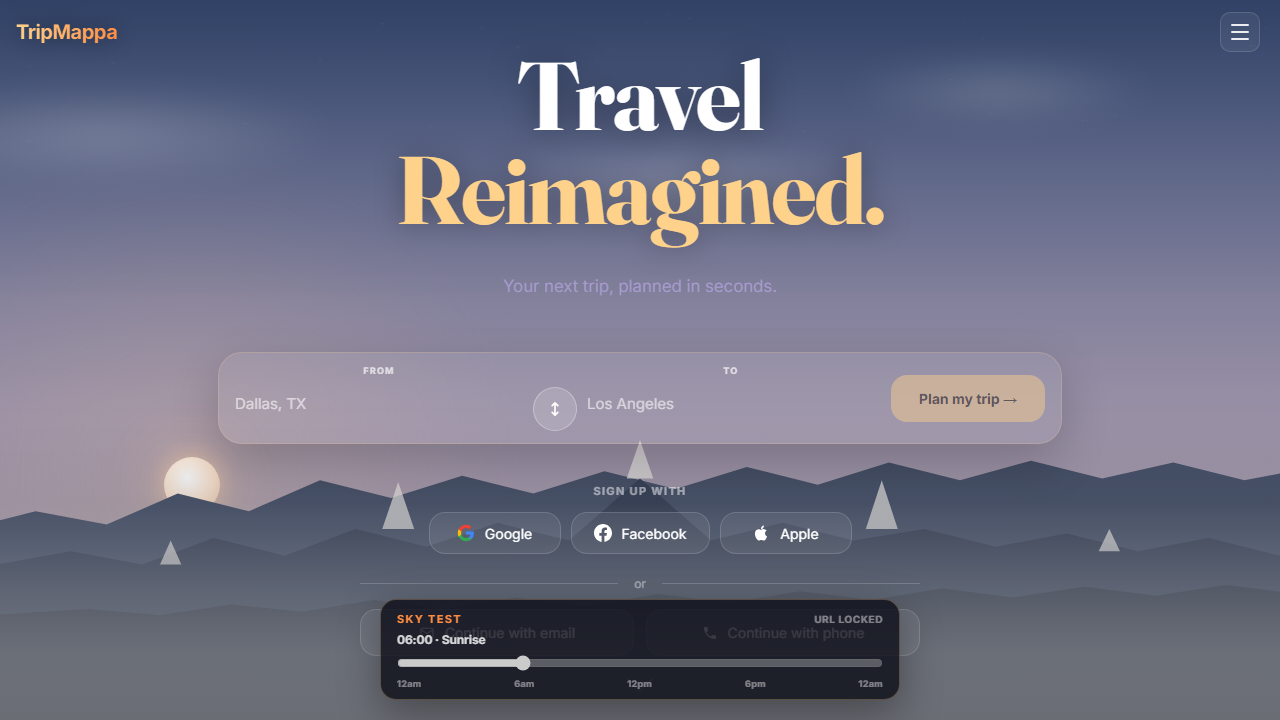
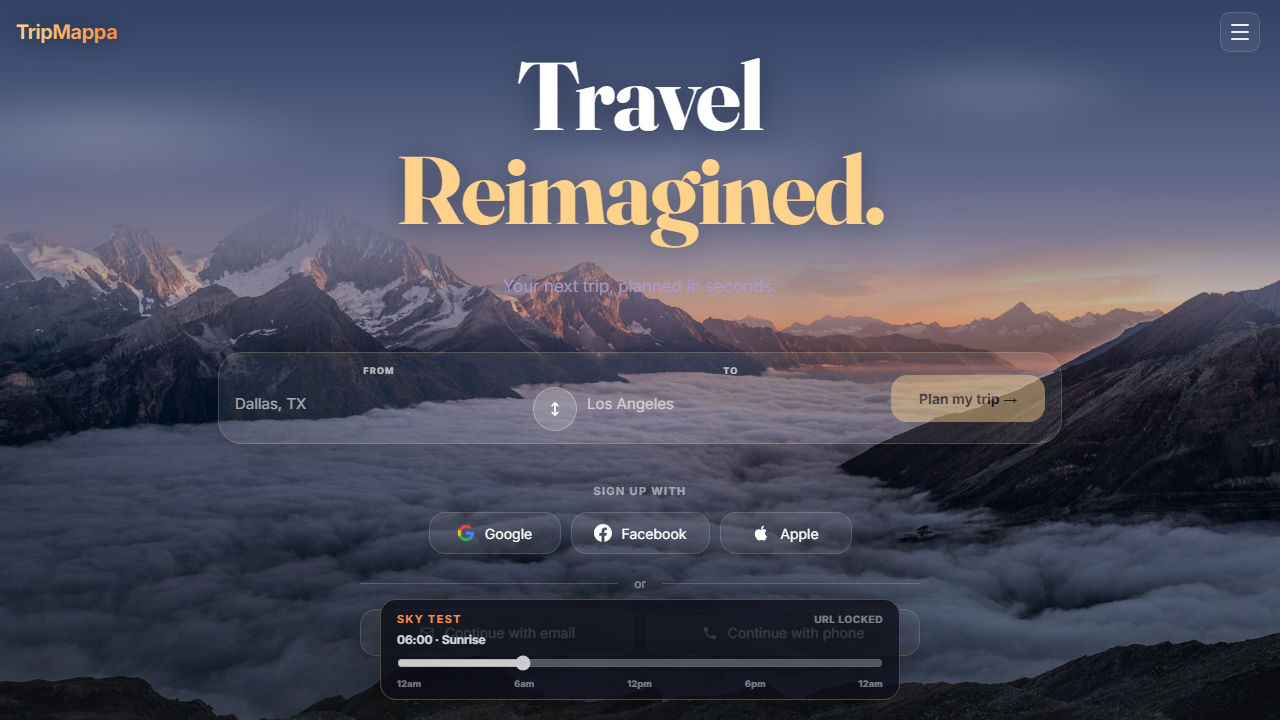
Restore photo mountain detail with masked animated sky layers.

diff --git a/src/styles/hero-mountain.css b/src/styles/hero-mountain.css
@@ -1,4 +1,4 @@
-/* Hero — procedural alpine sky + layered vector mountains (no photo) */
+/* Hero — animated sky + masked alpine photo for realistic mountain detail */
 
 .hero-mountain-scene {
   position: absolute;
@@ -158,79 +158,82 @@
   to { transform: translateX(-105vw); }
 }
 
-/* ── Mountain silhouettes ── */
-.hero-mountains {
+/* ── Photo mountains (masked — sky comes from animated layers above) ── */
+.hero-photo-layer {
   position: absolute;
-  left: 0;
-  right: 0;
-  bottom: 0;
-  width: 100%;
-  height: min(62vh, 520px);
+  inset: 0;
   z-index: 4;
-}
-
-.hero-mtn {
-  transition: fill 1s ease;
-}
-
-.hero-mtn--far {
-  fill: var(--mtn-far, rgb(88, 108, 128));
-}
-
-.hero-mtn--mid {
-  fill: var(--mtn-mid, rgb(58, 72, 92));
-}
-
-.hero-mtn--near {
-  fill: var(--mtn-near, rgb(32, 42, 56));
-}
-
-.hero-mtn-snow {
-  fill: var(--mtn-snow, rgb(248, 250, 255));
-  opacity: calc(0.55 + var(--mtn-rim, 0.1) * 0.8);
-  transition: fill 1s ease, opacity 1s ease;
-}
-
-/* Golden-hour rim light on the ridgeline */
-.hero-ridge-glow {
-  position: absolute;
-  left: 0;
-  right: 0;
-  bottom: 0;
-  height: min(62vh, 520px);
-  z-index: 5;
-  pointer-events: none;
-  background: linear-gradient(
-    to top,
+  -webkit-mask-image: linear-gradient(
+    to bottom,
     transparent 0%,
-    transparent 58%,
-    color-mix(in srgb, var(--sky-warm, rgb(255, 180, 100)) calc(var(--mtn-rim, 0) * 55%), transparent) 72%,
-    color-mix(in srgb, var(--sky-warm, rgb(255, 200, 140)) calc(var(--mtn-rim, 0) * 35%), transparent) 84%,
-    transparent 100%
+    transparent 24%,
+    rgba(0, 0, 0, 0.15) 32%,
+    rgba(0, 0, 0, 0.55) 40%,
+    black 50%,
+    black 100%
   );
-  mix-blend-mode: screen;
-  opacity: calc(var(--mtn-rim, 0) * 1.2);
-  transition: opacity 1s ease;
+  mask-image: linear-gradient(
+    to bottom,
+    transparent 0%,
+    transparent 24%,
+    rgba(0, 0, 0, 0.15) 32%,
+    rgba(0, 0, 0, 0.55) 40%,
+    black 50%,
+    black 100%
+  );
 }
 
-/* ── Cloud sea below the peaks ── */
+.hero-photo-slide {
+  position: absolute;
+  inset: 0;
+  background-color: #0a0c14;
+  background-size: cover;
+  background-repeat: no-repeat;
+  background-position: center 42%;
+  filter: brightness(var(--photo-bright, 1))
+    contrast(var(--photo-contrast, 1.05))
+    saturate(var(--photo-sat, 1.05));
+  transition: filter 1s ease;
+}
+
+.hero-photo-tint {
+  position: absolute;
+  inset: 0;
+  background: var(--photo-tint, rgb(18, 22, 52));
+  opacity: var(--photo-tint-op, 0);
+  mix-blend-mode: color;
+  transition: opacity 1s ease, background 1s ease;
+}
+
+.hero-photo-sky-fade {
+  position: absolute;
+  inset: 0;
+  background: linear-gradient(
+    to bottom,
+    var(--sky-horizon, rgb(218, 232, 245)) 0%,
+    color-mix(in srgb, var(--sky-horizon, rgb(218, 232, 245)) 65%, transparent) 18%,
+    transparent 38%
+  );
+  opacity: 0.72;
+  pointer-events: none;
+}
+
+/* Subtle night cloud wash over the photo base */
 .hero-cloud-sea {
   position: absolute;
   left: 0;
   right: 0;
   bottom: 0;
-  height: 42%;
-  z-index: 6;
+  height: 38%;
+  z-index: 5;
   pointer-events: none;
   background: linear-gradient(
     to top,
-    rgba(255, 255, 255, 0.97) 0%,
-    rgba(244, 248, 252, 0.88) 22%,
-    rgba(228, 236, 244, 0.55) 48%,
-    rgba(210, 222, 235, 0.18) 72%,
-    transparent 100%
+    rgba(255, 255, 255, 0.35) 0%,
+    rgba(244, 248, 252, 0.18) 30%,
+    transparent 72%
   );
-  opacity: var(--cloud-sea, 0.85);
+  opacity: var(--cloud-sea, 0);
   transition: opacity 1s ease;
 }
 
@@ -238,9 +241,8 @@
 .hero-mountain-scene--pre_dawn .hero-cloud-sea {
   background: linear-gradient(
     to top,
-    rgba(18, 22, 38, 0.92) 0%,
-    rgba(28, 34, 52, 0.72) 28%,
-    rgba(38, 44, 64, 0.35) 55%,
+    rgba(12, 16, 32, 0.55) 0%,
+    rgba(22, 28, 48, 0.28) 35%,
     transparent 100%
   );
 }
@@ -249,9 +251,8 @@
   .hero-sun-halo,
   .hero-sun-disc,
   .hero-moon-disc,
-  .hero-mtn,
-  .hero-mtn-snow,
-  .hero-ridge-glow,
+  .hero-photo-slide,
+  .hero-photo-tint,
   .hero-cloud-sea,
   .hero-stars {
     transition: none;
@@ -394,8 +395,29 @@
 
 /* ── Mobile: keep sky visible above the route form ── */
 @media (max-width: 768px) {
-  html[data-layout="mobile"] .hero-mountains {
-    height: min(56vh, 460px);
+  html[data-layout="mobile"] .hero-photo-slide {
+    background-position: center 28%;
+  }
+
+  html[data-layout="mobile"] .hero-photo-layer {
+    -webkit-mask-image: linear-gradient(
+      to bottom,
+      transparent 0%,
+      transparent 20%,
+      rgba(0, 0, 0, 0.2) 28%,
+      rgba(0, 0, 0, 0.6) 36%,
+      black 46%,
+      black 100%
+    );
+    mask-image: linear-gradient(
+      to bottom,
+      transparent 0%,
+      transparent 20%,
+      rgba(0, 0, 0, 0.2) 28%,
+      rgba(0, 0, 0, 0.6) 36%,
+      black 46%,
+      black 100%
+    );
   }
 
   html[data-layout="mobile"] .hero:has(.hero-mountain-scene) .hero-overlay {

diff --git a/src/lib/skyTime.js b/src/lib/skyTime.js
@@ -98,18 +98,18 @@ function rgbStr([r, g, b]) {
   return `rgb(${r}, ${g}, ${b})`;
 }
 
-/** Hour samples for smooth sky + mountain palette over the vector hero scene. */
+/** Hour samples — animated sky + photo mountain grade. */
 const SKY_ATMOSPHERE_KEYS = [
-  { h: 0, zenith: [12, 16, 38], horizon: [38, 34, 62], warm: [180, 190, 220], warmth: 0, stars: 1, glow: 0, mtnFar: [20, 24, 44], mtnMid: [12, 16, 32], mtnNear: [6, 8, 18], snow: [195, 205, 220], rim: 0.05, cloudSea: 0.28 },
-  { h: 4, zenith: [18, 22, 52], horizon: [58, 48, 82], warm: [210, 170, 140], warmth: 0.04, stars: 0.85, glow: 0, mtnFar: [24, 28, 50], mtnMid: [16, 20, 38], mtnNear: [8, 10, 22], snow: [210, 215, 228], rim: 0.08, cloudSea: 0.32 },
-  { h: 5.5, zenith: [48, 58, 98], horizon: [145, 118, 138], warm: [255, 195, 145], warmth: 0.18, stars: 0.15, glow: 0.28, mtnFar: [52, 58, 82], mtnMid: [38, 44, 68], mtnNear: [22, 28, 48], snow: [235, 228, 218], rim: 0.22, cloudSea: 0.55 },
-  { h: 7, zenith: [82, 128, 178], horizon: [196, 212, 232], warm: [255, 228, 200], warmth: 0.1, stars: 0, glow: 0.32, mtnFar: [78, 98, 122], mtnMid: [52, 68, 88], mtnNear: [30, 40, 54], snow: [248, 250, 255], rim: 0.18, cloudSea: 0.82 },
-  { h: 12, zenith: [72, 132, 198], horizon: [218, 232, 245], warm: [255, 242, 225], warmth: 0.06, stars: 0, glow: 0.38, mtnFar: [88, 108, 128], mtnMid: [58, 72, 92], mtnNear: [32, 42, 56], snow: [252, 254, 255], rim: 0.12, cloudSea: 0.94 },
-  { h: 16, zenith: [88, 118, 168], horizon: [225, 188, 148], warm: [255, 178, 95], warmth: 0.16, stars: 0, glow: 0.42, mtnFar: [82, 98, 118], mtnMid: [54, 66, 86], mtnNear: [30, 38, 52], snow: [250, 242, 232], rim: 0.28, cloudSea: 0.88 },
-  { h: 18.5, zenith: [62, 48, 88], horizon: [195, 115, 72], warm: [255, 145, 70], warmth: 0.22, stars: 0.08, glow: 0.38, mtnFar: [48, 42, 72], mtnMid: [32, 28, 52], mtnNear: [18, 16, 34], snow: [240, 210, 195], rim: 0.35, cloudSea: 0.62 },
-  { h: 20, zenith: [32, 26, 54], horizon: [82, 52, 68], warm: [255, 130, 80], warmth: 0.08, stars: 0.55, glow: 0.12, mtnFar: [28, 24, 48], mtnMid: [18, 16, 36], mtnNear: [10, 10, 24], snow: [210, 200, 210], rim: 0.12, cloudSea: 0.4 },
-  { h: 22, zenith: [14, 18, 40], horizon: [40, 36, 64], warm: [170, 175, 210], warmth: 0, stars: 0.92, glow: 0, mtnFar: [18, 22, 42], mtnMid: [10, 14, 30], mtnNear: [6, 8, 18], snow: [200, 208, 222], rim: 0.06, cloudSea: 0.3 },
-  { h: 24, zenith: [12, 16, 38], horizon: [38, 34, 62], warm: [180, 190, 220], warmth: 0, stars: 1, glow: 0, mtnFar: [20, 24, 44], mtnMid: [12, 16, 32], mtnNear: [6, 8, 18], snow: [195, 205, 220], rim: 0.05, cloudSea: 0.28 },
+  { h: 0, zenith: [12, 16, 38], horizon: [38, 34, 62], warm: [180, 190, 220], warmth: 0, stars: 1, glow: 0, cloudSea: 0.15, photoBright: 0.38, photoContrast: 1.12, photoSat: 0.52, photoTint: [18, 22, 52], photoTintOp: 0.58 },
+  { h: 4, zenith: [18, 22, 52], horizon: [58, 48, 82], warm: [210, 170, 140], warmth: 0.04, stars: 0.85, glow: 0, cloudSea: 0.18, photoBright: 0.48, photoContrast: 1.1, photoSat: 0.62, photoTint: [32, 28, 58], photoTintOp: 0.45 },
+  { h: 5.5, zenith: [48, 58, 98], horizon: [145, 118, 138], warm: [255, 195, 145], warmth: 0.18, stars: 0.15, glow: 0.28, cloudSea: 0.22, photoBright: 0.82, photoContrast: 1.06, photoSat: 1.08, photoTint: [255, 170, 110], photoTintOp: 0.14 },
+  { h: 7, zenith: [82, 128, 178], horizon: [196, 212, 232], warm: [255, 228, 200], warmth: 0.1, stars: 0, glow: 0.32, cloudSea: 0.08, photoBright: 1, photoContrast: 1.04, photoSat: 1.08, photoTint: [255, 220, 190], photoTintOp: 0.06 },
+  { h: 12, zenith: [72, 132, 198], horizon: [218, 232, 245], warm: [255, 242, 225], warmth: 0.06, stars: 0, glow: 0.38, cloudSea: 0, photoBright: 1.02, photoContrast: 1.05, photoSat: 1.1, photoTint: [255, 248, 240], photoTintOp: 0 },
+  { h: 16, zenith: [88, 118, 168], horizon: [225, 188, 148], warm: [255, 178, 95], warmth: 0.16, stars: 0, glow: 0.42, cloudSea: 0.05, photoBright: 0.98, photoContrast: 1.06, photoSat: 1.12, photoTint: [255, 200, 140], photoTintOp: 0.08 },
+  { h: 18.5, zenith: [62, 48, 88], horizon: [195, 115, 72], warm: [255, 145, 70], warmth: 0.22, stars: 0.08, glow: 0.38, cloudSea: 0.12, photoBright: 0.88, photoContrast: 1.08, photoSat: 1.05, photoTint: [255, 140, 80], photoTintOp: 0.16 },
+  { h: 20, zenith: [32, 26, 54], horizon: [82, 52, 68], warm: [255, 130, 80], warmth: 0.08, stars: 0.55, glow: 0.12, cloudSea: 0.2, photoBright: 0.55, photoContrast: 1.1, photoSat: 0.72, photoTint: [45, 32, 68], photoTintOp: 0.38 },
+  { h: 22, zenith: [14, 18, 40], horizon: [40, 36, 64], warm: [170, 175, 210], warmth: 0, stars: 0.92, glow: 0, cloudSea: 0.16, photoBright: 0.4, photoContrast: 1.12, photoSat: 0.55, photoTint: [22, 26, 50], photoTintOp: 0.52 },
+  { h: 24, zenith: [12, 16, 38], horizon: [38, 34, 62], warm: [180, 190, 220], warmth: 0, stars: 1, glow: 0, cloudSea: 0.15, photoBright: 0.38, photoContrast: 1.12, photoSat: 0.52, photoTint: [18, 22, 52], photoTintOp: 0.58 },
 ];
 
 function sampleAtmosphere(hour) {
@@ -127,12 +127,12 @@ function sampleAtmosphere(hour) {
     warmth: lerp(a.warmth, b.warmth, t),
     stars: lerp(a.stars, b.stars, t),
     glow: lerp(a.glow, b.glow, t),
-    mtnFar: lerpRgb(a.mtnFar, b.mtnFar, t),
-    mtnMid: lerpRgb(a.mtnMid, b.mtnMid, t),
-    mtnNear: lerpRgb(a.mtnNear, b.mtnNear, t),
-    snow: lerpRgb(a.snow, b.snow, t),
-    rim: lerp(a.rim, b.rim, t),
     cloudSea: lerp(a.cloudSea, b.cloudSea, t),
+    photoBright: lerp(a.photoBright, b.photoBright, t),
+    photoContrast: lerp(a.photoContrast, b.photoContrast, t),
+    photoSat: lerp(a.photoSat, b.photoSat, t),
+    photoTint: lerpRgb(a.photoTint, b.photoTint, t),
+    photoTintOp: lerp(a.photoTintOp, b.photoTintOp, t),
   };
 }
 
@@ -157,7 +157,7 @@ function moonPosition(hour) {
   };
 }
 
-/** Continuous sky atmosphere for the vector hero — sky, sun/moon, mountains, cloud sea. */
+/** Continuous sky atmosphere — animated sky + graded photo mountains. */
 export function getSkyAtmosphere(hour = 12) {
   const sample = sampleAtmosphere(hour);
   const sun = sunPosition(hour);
@@ -180,12 +180,12 @@ export function getSkyAtmosphere(hour = 12) {
       "--moon-x": moon ? `${moon.x}%` : "50%",
       "--moon-y": moon ? `${moon.y}%` : "50%",
       "--moon-visible": moon ? "1" : "0",
-      "--mtn-far": rgbStr(sample.mtnFar),
-      "--mtn-mid": rgbStr(sample.mtnMid),
-      "--mtn-near": rgbStr(sample.mtnNear),
-      "--mtn-snow": rgbStr(sample.snow),
-      "--mtn-rim": String(sample.rim),
       "--cloud-sea": String(sample.cloudSea),
+      "--photo-bright": String(sample.photoBright),
+      "--photo-contrast": String(sample.photoContrast),
+      "--photo-sat": String(sample.photoSat),
+      "--photo-tint": rgbStr(sample.photoTint),
+      "--photo-tint-op": String(sample.photoTintOp),
     },
   };
 }

diff --git a/src/components/HeroMountainScene.jsx b/src/components/HeroMountainScene.jsx
@@ -1,5 +1,5 @@
 import { useMemo } from "react";
-import { MTN_FAR, MTN_MID, MTN_NEAR, MTN_SNOW } from "../lib/heroMountainPaths.js";
+import { HERO_PHOTO } from "../lib/constants.js";
 import { buildStarField, getSkyAtmosphere, SKY_PHASES } from "../lib/skyTime.js";
 
 const STARS = buildStarField(72);
@@ -49,19 +49,15 @@ export default function HeroMountainScene({ phase = SKY_PHASES.night, hour = 12 
         </div>
       )}
 
-      <svg
-        className="hero-mountains"
-        viewBox="0 0 1440 520"
-        preserveAspectRatio="xMidYMax slice"
-        aria-hidden="true"
-      >
-        <path className="hero-mtn hero-mtn--far" d={MTN_FAR} />
-        <path className="hero-mtn hero-mtn--mid" d={MTN_MID} />
-        <path className="hero-mtn hero-mtn--near" d={MTN_NEAR} />
-        <path className="hero-mtn-snow" d={MTN_SNOW} />
-      </svg>
+      <div className="hero-photo-layer">
+        <div
+          className="hero-photo-slide"
+          style={{ backgroundImage: `url(${HERO_PHOTO})` }}
+        />
+        <div className="hero-photo-tint" aria-hidden="true" />
+        <div className="hero-photo-sky-fade" aria-hidden="true" />
+      </div>
 
-      <div className="hero-ridge-glow" aria-hidden="true" />
       <div className="hero-cloud-sea" aria-hidden="true" />
     </div>
   );

diff --git a/src/lib/constants.js b/src/lib/constants.js
@@ -45,9 +45,9 @@ export const HERO_PHOTOS_NIGHT = [
   "https://images.unsplash.com/photo-1419242902214-272b3f66ee7a?w=1920&q=80",
 ];
 
-/** @deprecated Hero uses procedural SVG mountains — no photo asset */
-export const HERO_PHOTO = null;
-export const HERO_PHOTO_PRELOAD = null;
+/** Self-hosted alpine hero photo — sky is animated separately via CSS mask. */
+export const HERO_PHOTO = "/hero-mountain.jpg";
+export const HERO_PHOTO_PRELOAD = HERO_PHOTO;
 
 /** @deprecated Use HERO_PHOTO — kept for legacy imports */
 export const HERO_PHOTO_DAY = HERO_PHOTOS_DAY[0];

diff --git a/src/lib/skyTime.test.js b/src/lib/skyTime.test.js
@@ -66,8 +66,8 @@ describe("skyTime", () => {
     expect(night.cssVars["--sun-visible"]).toBe("0");
     expect(noon.cssVars["--moon-visible"]).toBe("0");
     expect(night.cssVars["--moon-visible"]).toBe("1");
-    expect(noon.cssVars["--mtn-far"]).toMatch(/^rgb\(/);
-    expect(parseFloat(noon.cssVars["--cloud-sea"])).toBeGreaterThan(0.8);
+    expect(noon.cssVars["--photo-bright"]).toBeDefined();
+    expect(parseFloat(night.cssVars["--photo-bright"])).toBeLessThan(0.5);
   });
 
   it("clears theme override when toggled back to the auto default", () => {

diff --git a/index.html b/index.html
@@ -5,6 +5,7 @@
     <link rel="icon" type="image/svg+xml" href="/favicon.svg" />
     <meta name="viewport" content="width=device-width, initial-scale=1.0" />
     <title>tripmappa</title>
+    <link rel="preload" as="image" href="/hero-mountain.jpg" fetchpriority="high" />
     <script>
       (function () {
         var w = window.matchMedia("(min-width: 769px)").matches;